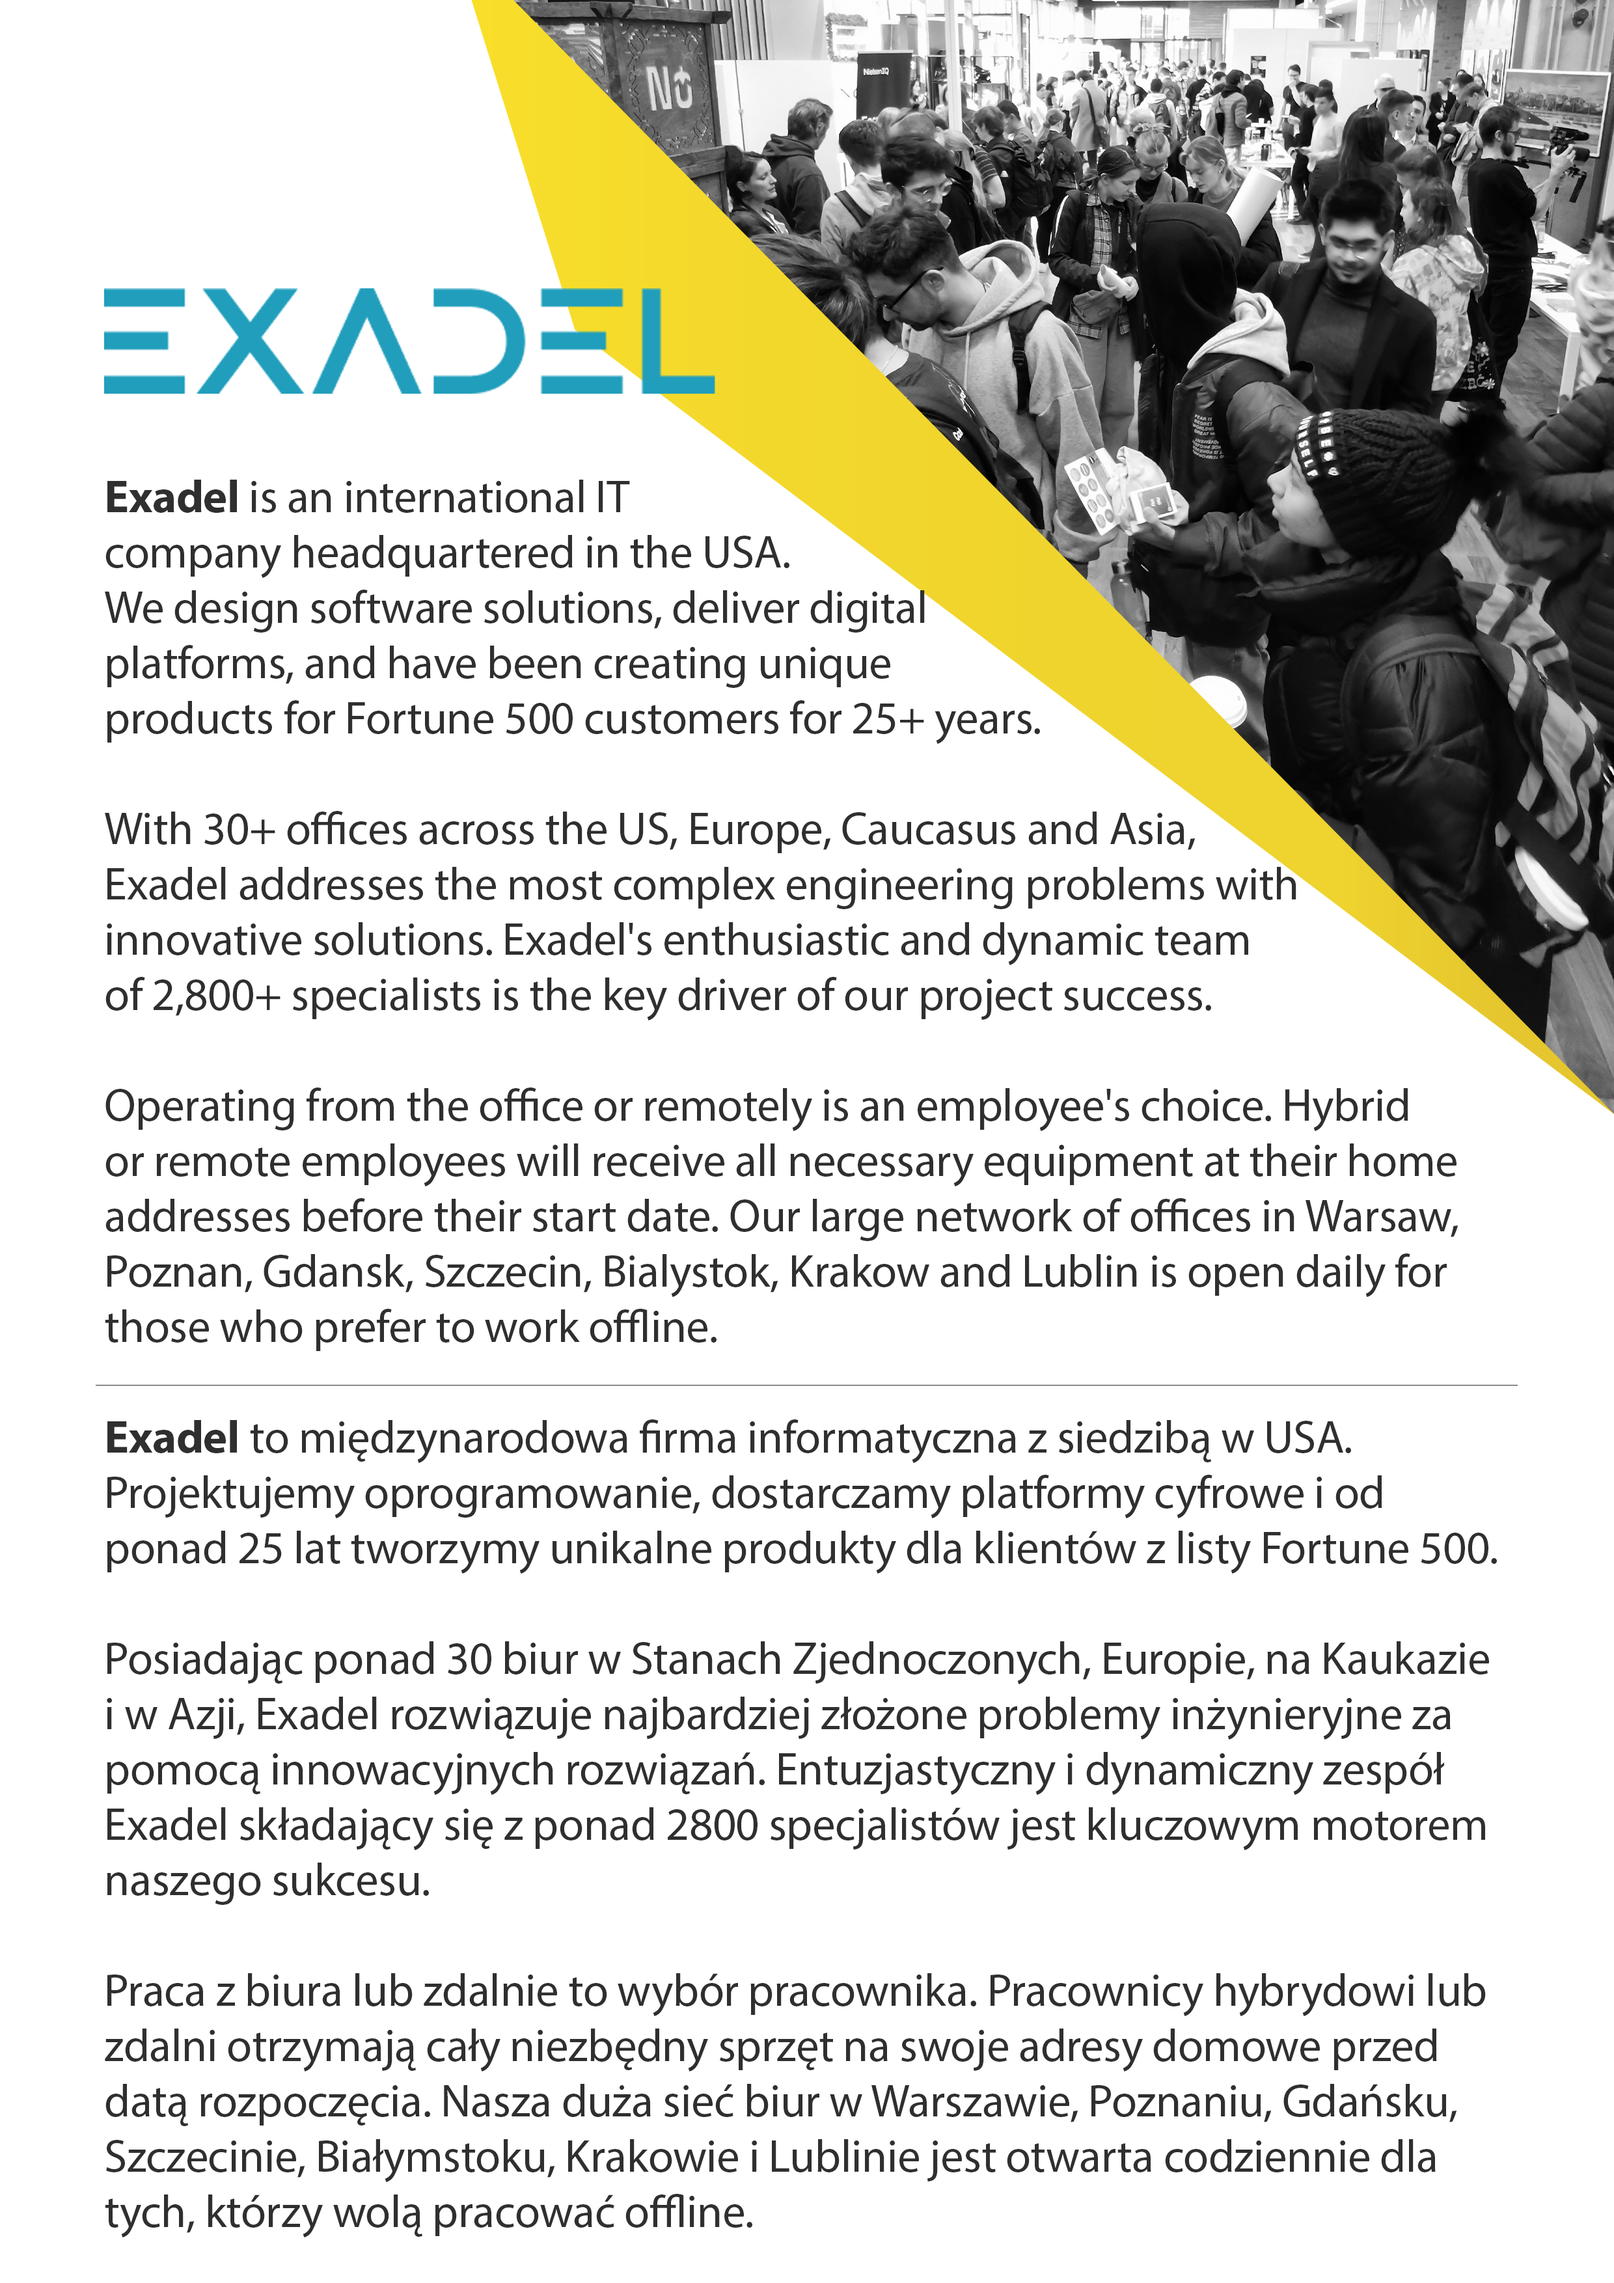
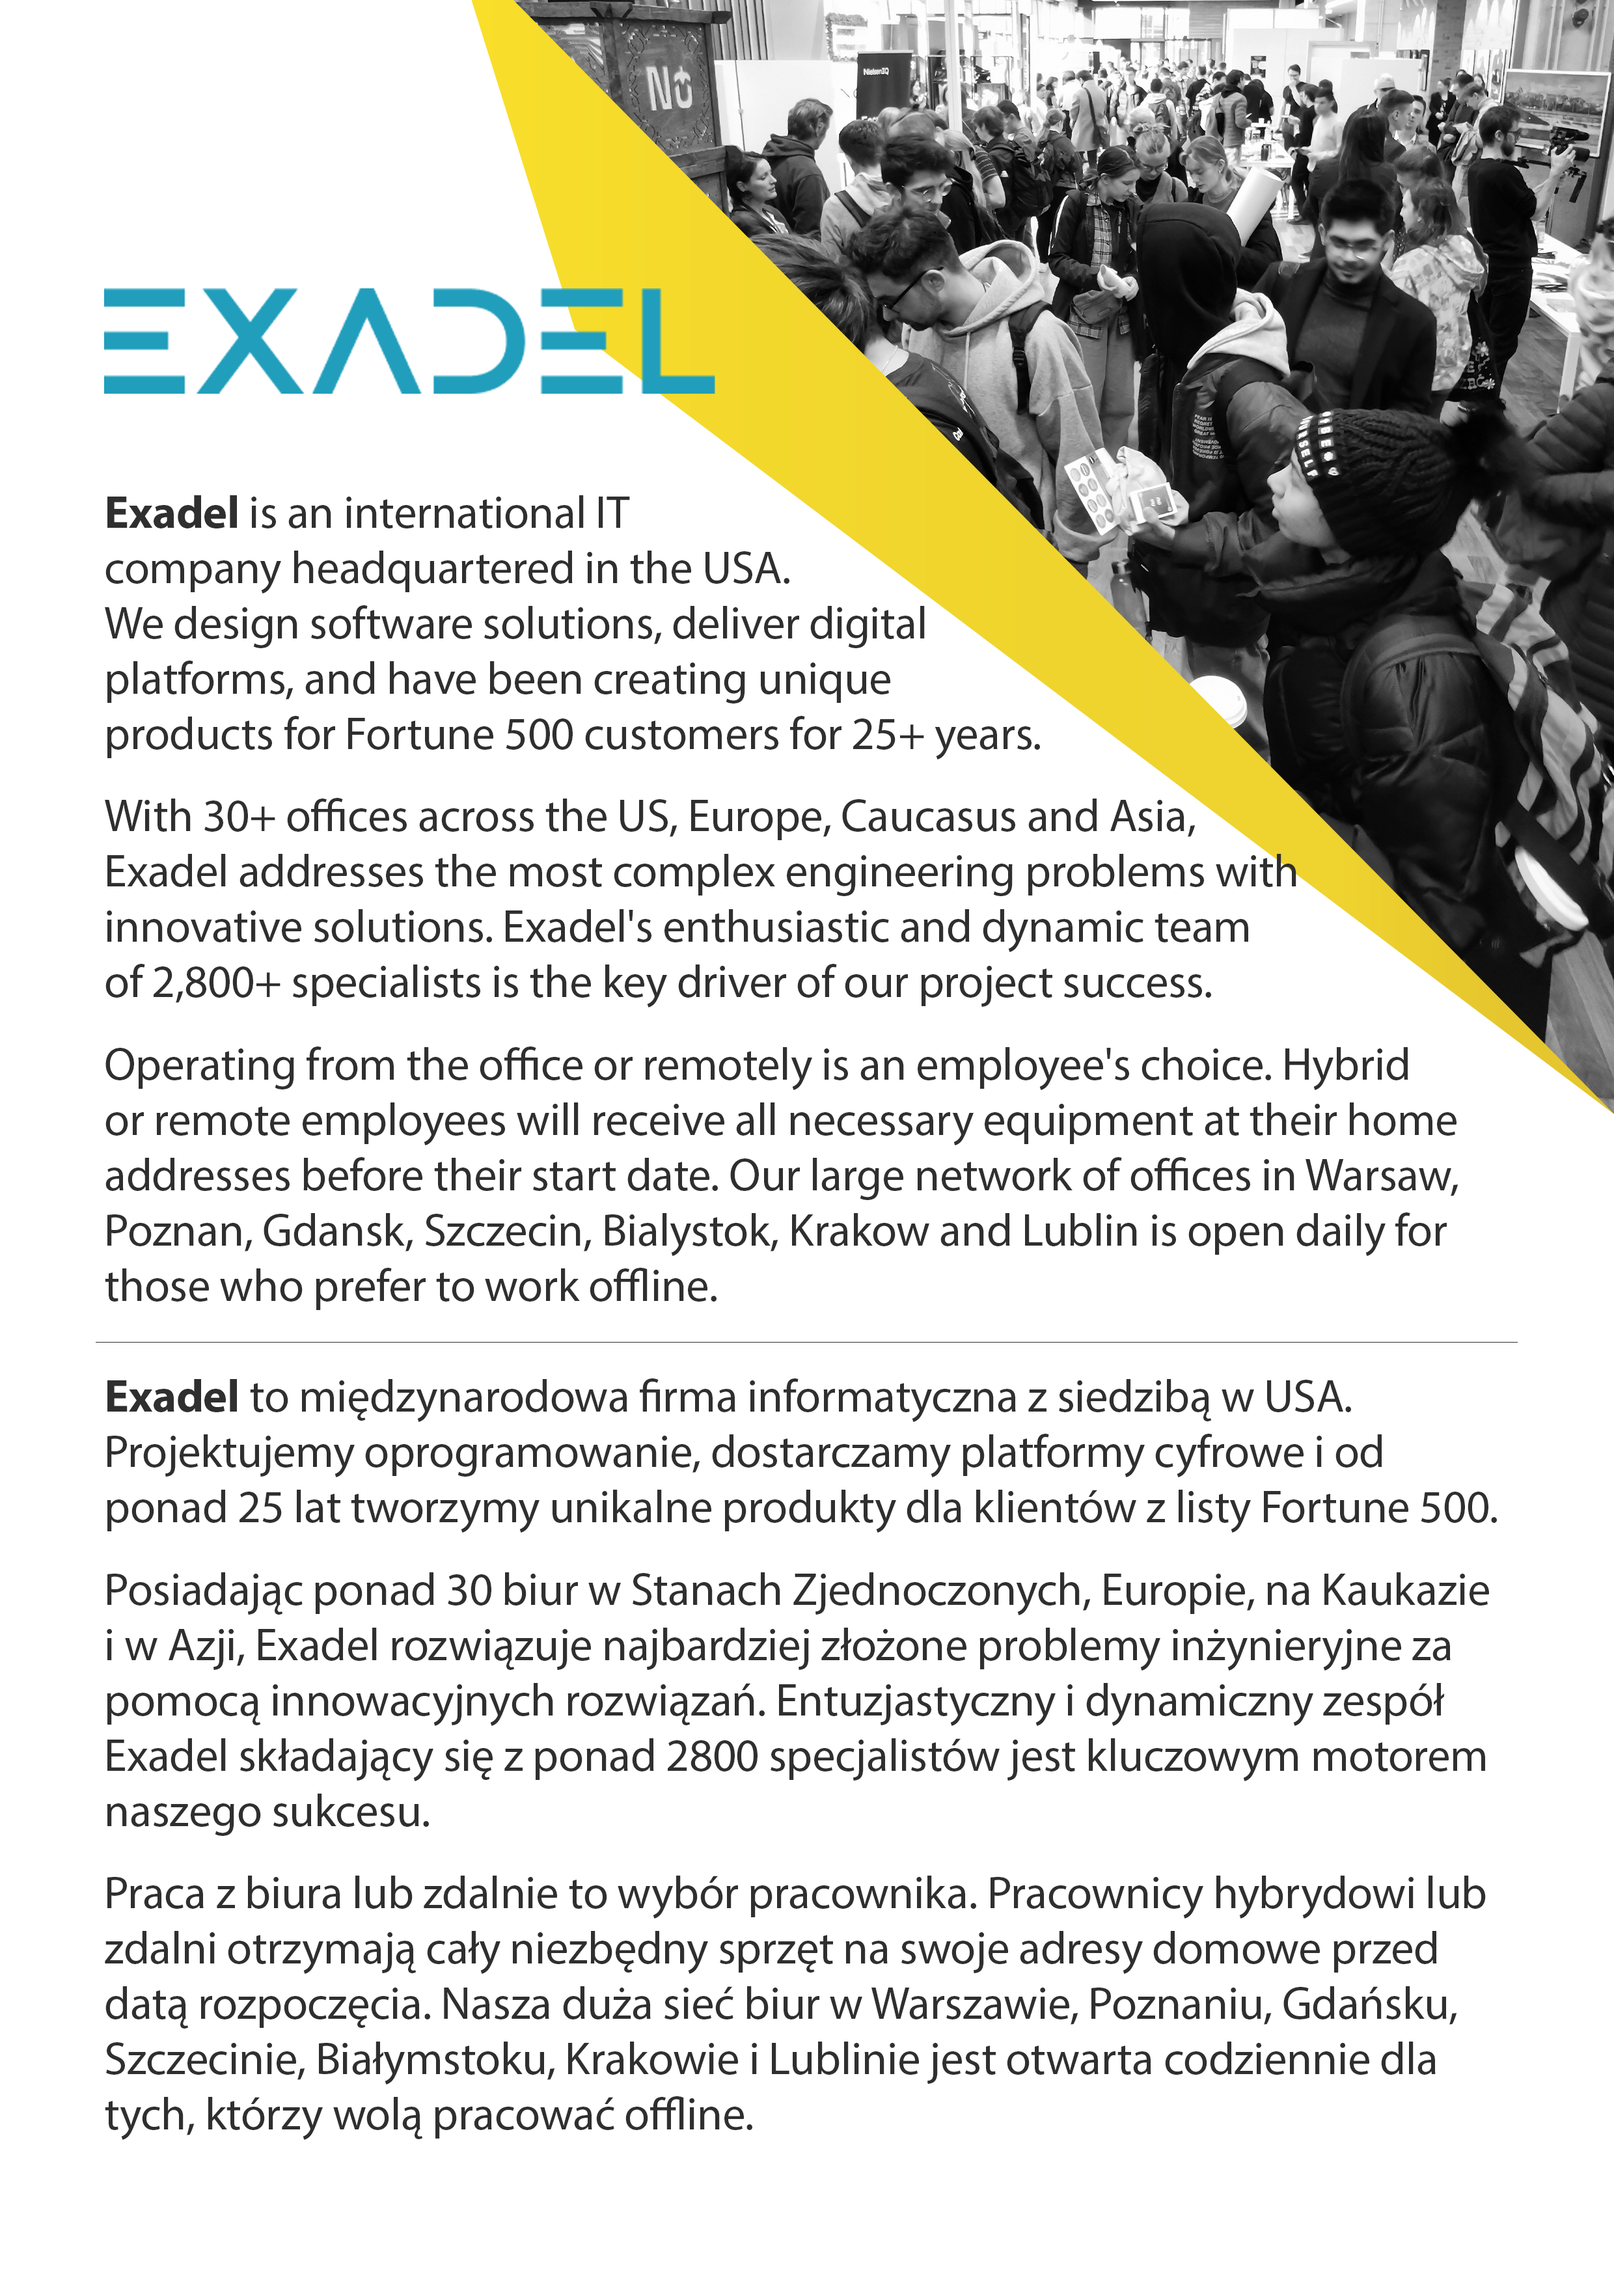
fixes

Changed region(s): [[0.0621, 0.2175, 0.9315, 0.9943]]

diff --git a/src/App.js b/src/App.js
@@ -15,7 +15,16 @@ function App() {
   return (
     <>
       <Top />
-      <Box sx={{ display: 'flex', justifyContent: 'center', minHeight: '100vh', mt: 3, maxWidth: '100vw', backgroundColor: 'gray', py: 3 }}>
+      <Box sx={{
+        display: 'flex',
+        flexDirection: 'column',
+        justifyContent: 'center',
+        minHeight: '100vh',
+        mt: 3,
+        maxWidth: '100vw',
+        backgroundColor: 'gray',
+        py: 3,
+      }}>
         <MyBook />
       </Box>
       <Box sx={{ minHeight: '100vh', mt: 10, maxWidth: '100vw' }}>
